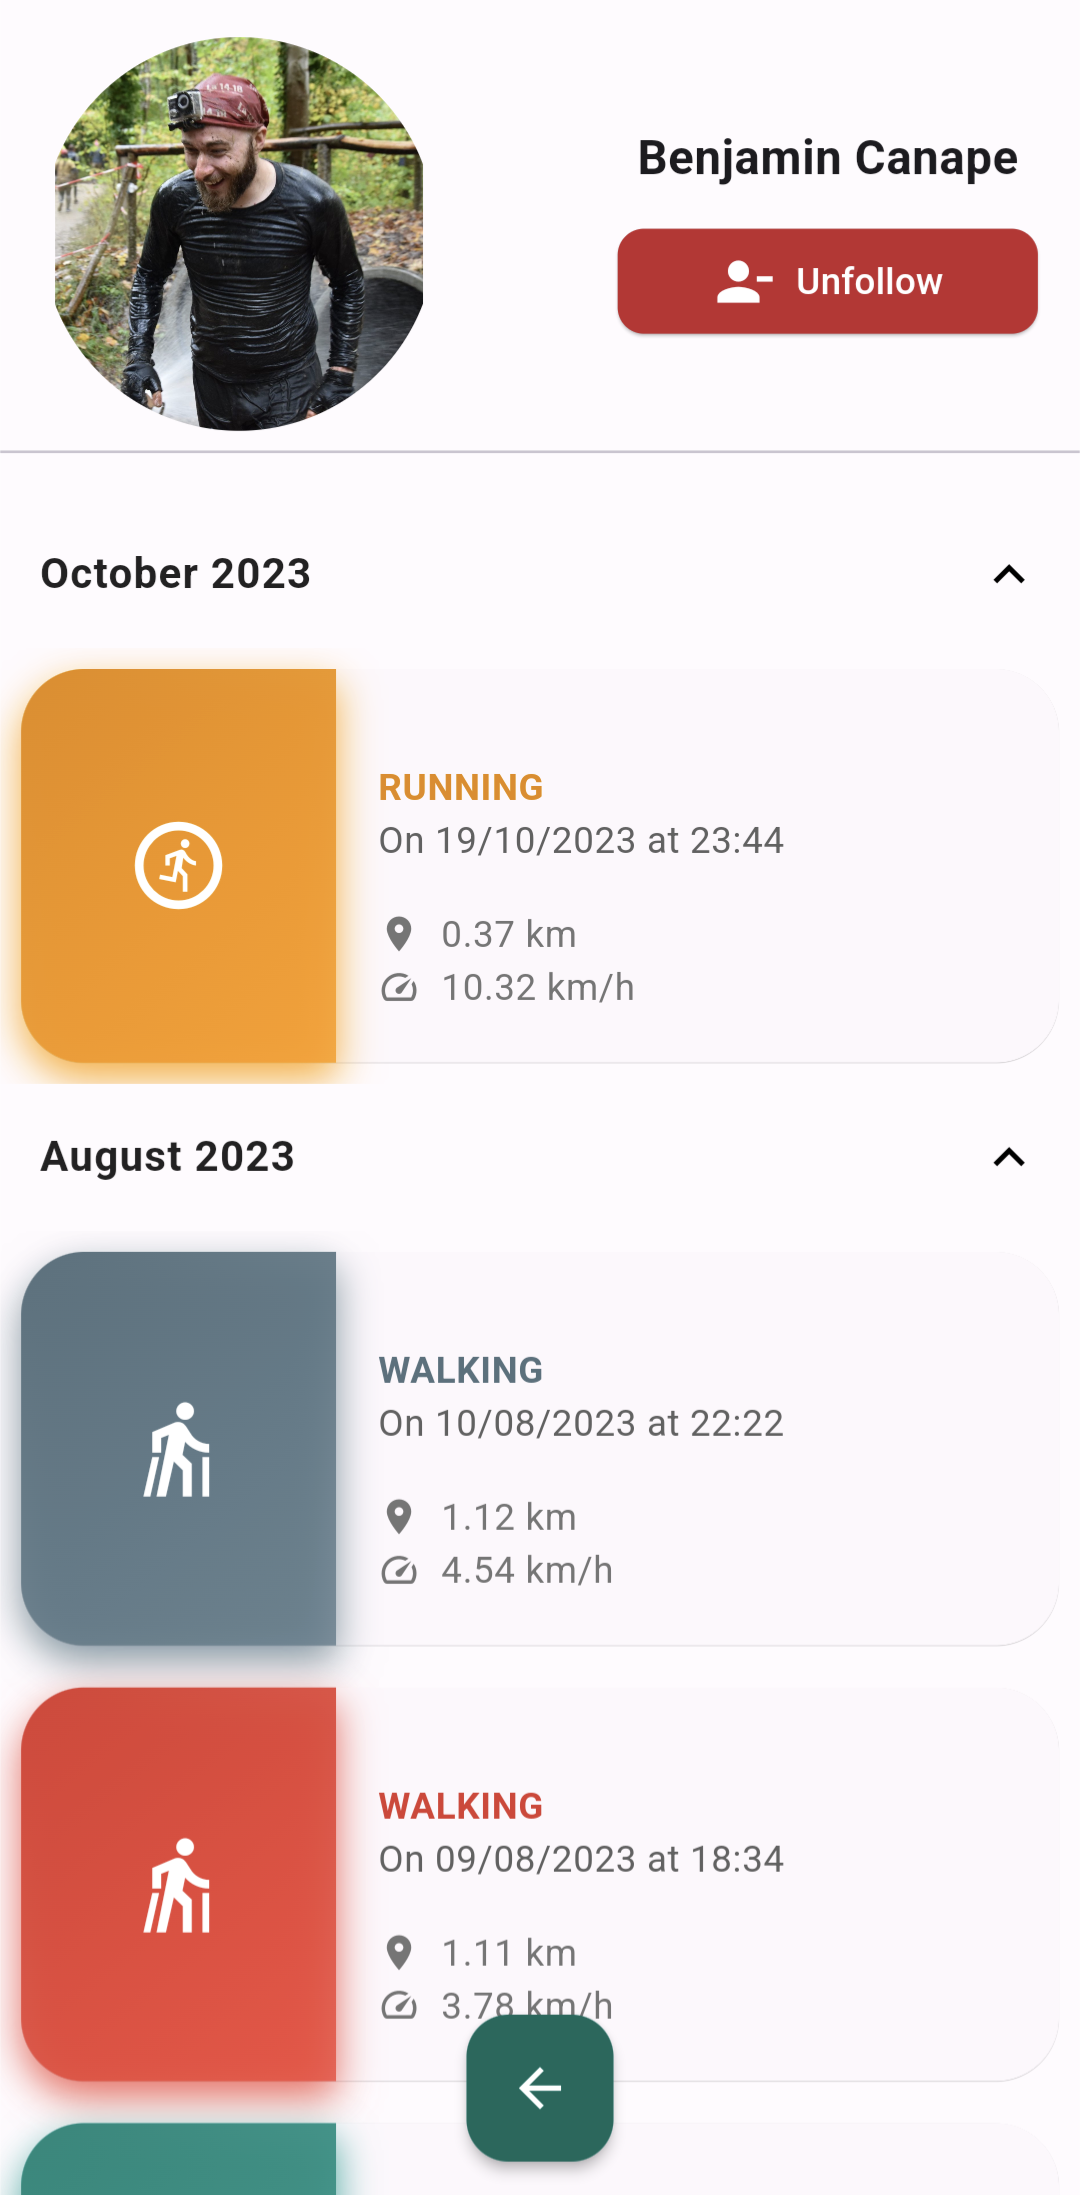
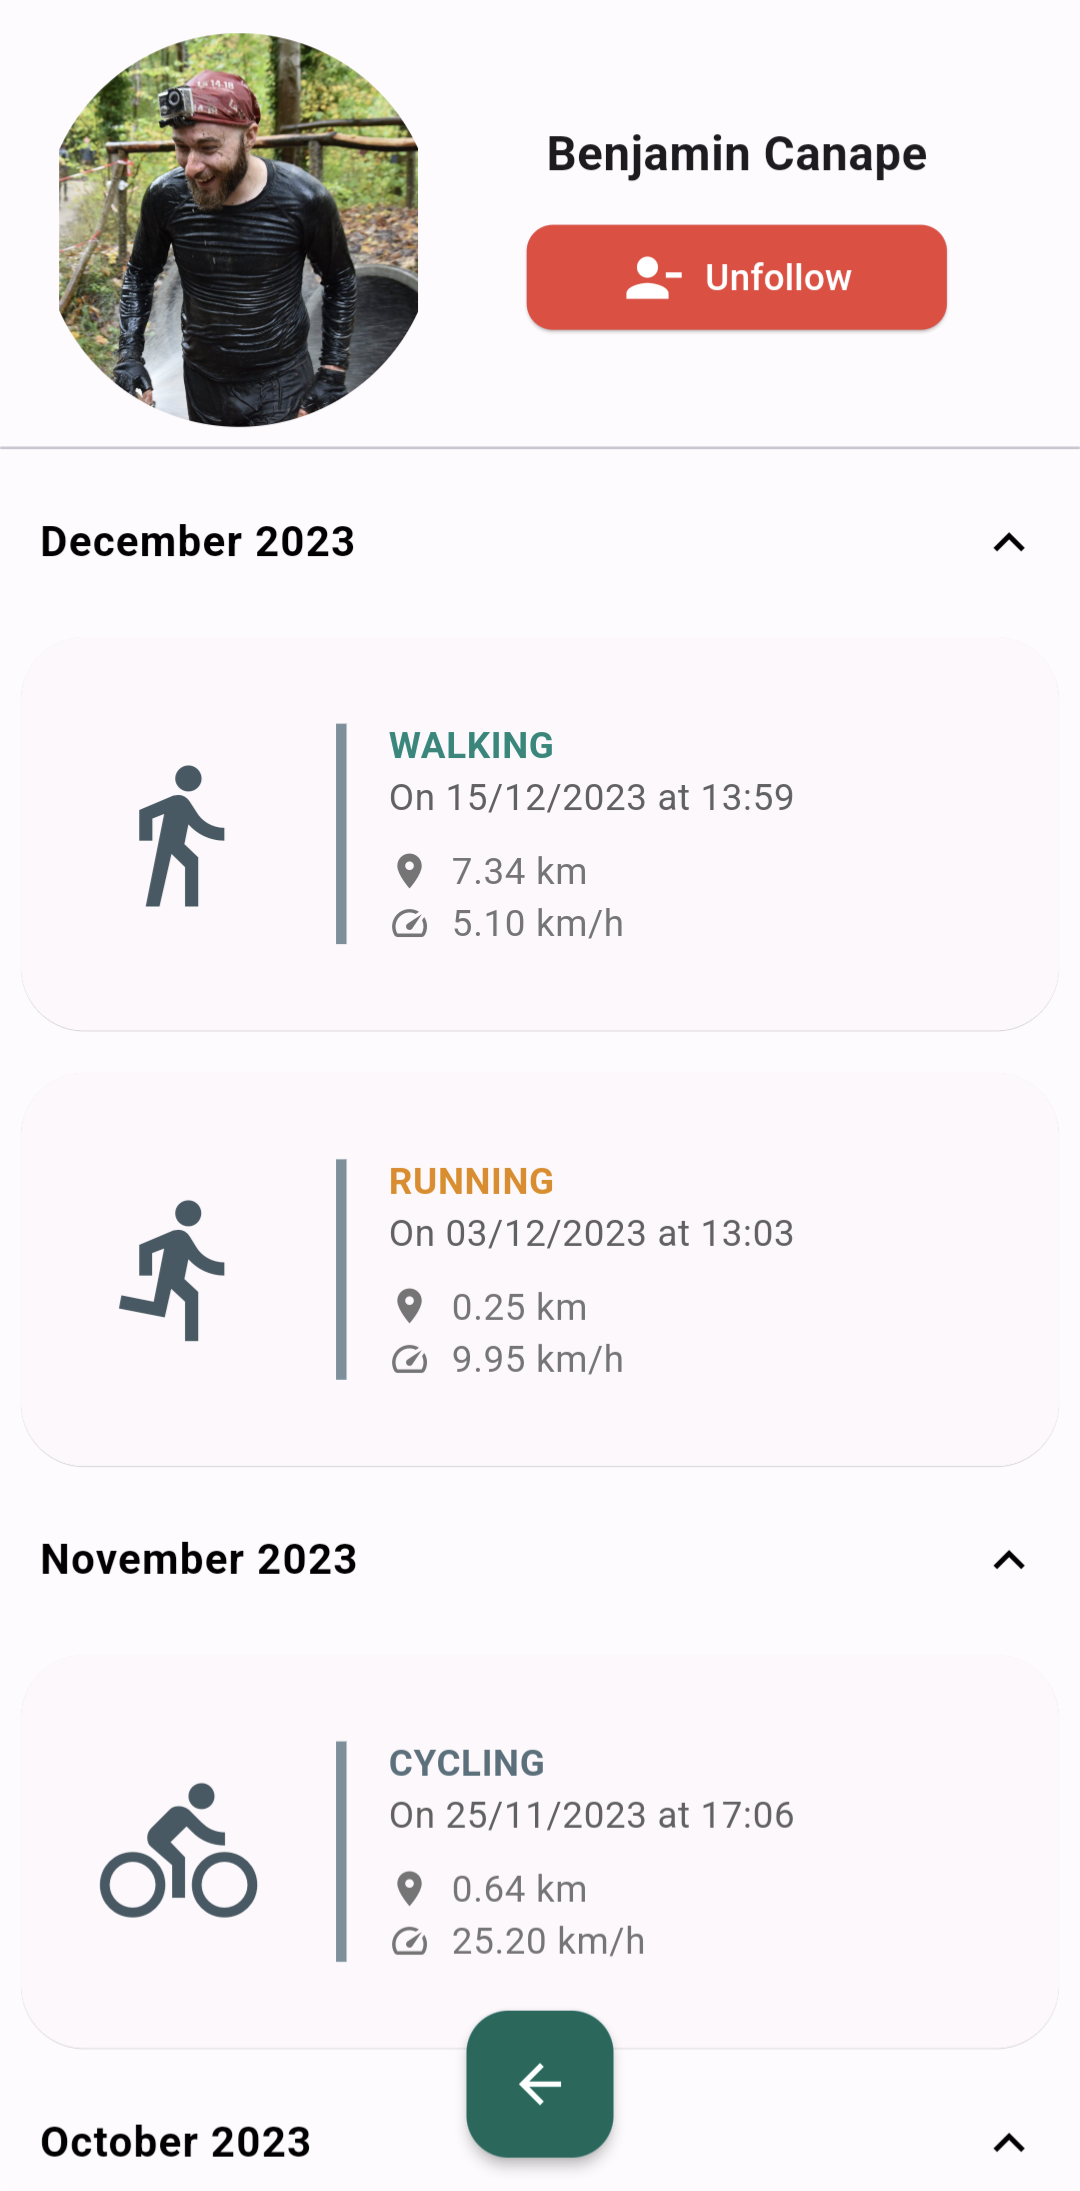
Beautiful activity cards (#48)
* change visual of activity cards

* fix import and dart fix

* edit screenshots

diff --git a/lib/presentation/common/activity/widgets/activity_item.dart b/lib/presentation/common/activity/widgets/activity_item.dart
@@ -35,8 +35,6 @@ class ActivityItem extends HookConsumerWidget {
     final List<Color> colors = ColorUtils.generateColorTupleFromIndex(index);
     final titleColor = colors.first;
 
-    final startColor = colors.first;
-    final endColor = colors.last;
     const double borderRadius = 24;
 
     Activity currentActivity = state.activity ?? activity;
@@ -74,33 +72,25 @@ class ActivityItem extends HookConsumerWidget {
                 Row(
                   children: [
                     if (!displayUserName)
-                      Container(
+                      SizedBox(
                         width: 120,
                         height: 150,
-                        decoration: BoxDecoration(
-                          borderRadius: const BorderRadius.only(
-                            topLeft: Radius.circular(borderRadius),
-                            bottomLeft: Radius.circular(borderRadius),
-                          ),
-                          gradient: LinearGradient(
-                            colors: [startColor, endColor],
-                            begin: Alignment.topLeft,
-                            end: Alignment.bottomRight,
-                          ),
-                          boxShadow: [
-                            BoxShadow(
-                              color: endColor,
-                              blurRadius: 12,
-                              offset: const Offset(0, 6),
-                            ),
-                          ],
-                        ),
                         child: Center(
                           child: Icon(
                             ActivityUtils.getActivityTypeIcon(activity.type),
-                            color: ColorUtils.white,
-                            size: 40,
+                            color: Colors.blueGrey.shade700,
+                            size: 60,
                           ),
+                        ),
+                      ),
+                    if (!displayUserName)
+                      SizedBox(
+                        height: 84,
+                        child: VerticalDivider(
+                          key: Key(activity.id.toString()),
+                          color: Colors.blueGrey.shade400,
+                          thickness: 4,
+                          width: 4,
                         ),
                       ),
                     if (!displayUserName) const SizedBox(width: 16),

diff --git a/lib/data/api/activity_api.dart b/lib/data/api/activity_api.dart
@@ -17,7 +17,7 @@ class ActivityApi {
       int pageNumber) async {
     Response? response = await ApiHelper.makeRequest(
         '${ActivityApi.url}all', 'GET',
-        queryParams: {'page': pageNumber, 'size': 5});
+        queryParams: {'page': pageNumber, 'size': 20});
 
     PageResponse pageResponse = PageResponse.fromMap(response?.data);
     final data = List<Map<String, dynamic>>.from(pageResponse.list);
@@ -33,7 +33,7 @@ class ActivityApi {
       int pageNumber) async {
     Response? response = await ApiHelper.makeRequest(
         '${ActivityApi.url}friends', 'GET',
-        queryParams: {'page': pageNumber, 'size': 3}, noCache: true);
+        queryParams: {'page': pageNumber, 'size': 10}, noCache: true);
     PageResponse pageResponse = PageResponse.fromMap(response?.data);
     final data = List<Map<String, dynamic>>.from(pageResponse.list);
     List<ActivityResponse> activities =
@@ -48,7 +48,7 @@ class ActivityApi {
       String userId, int pageNumber) async {
     Response? response = await ApiHelper.makeRequest(
         '${ActivityApi.url}user/$userId', 'GET',
-        queryParams: {'page': pageNumber, 'size': 5}, noCache: true);
+        queryParams: {'page': pageNumber, 'size': 20}, noCache: true);
     PageResponse pageResponse = PageResponse.fromMap(response?.data);
     final data = List<Map<String, dynamic>>.from(pageResponse.list);
     List<ActivityResponse> activities =

diff --git a/lib/presentation/common/activity/widgets/activity_comments.dart b/lib/presentation/common/activity/widgets/activity_comments.dart
@@ -5,13 +5,13 @@ import 'package:flutter/material.dart';
 import 'package:flutter_gen/gen_l10n/app_localizations.dart';
 import 'package:hooks_riverpod/hooks_riverpod.dart';
 import 'package:quickalert/quickalert.dart';
-import '../../core/utils/ui_utils.dart';
 
 import '../../../../core/utils/storage_utils.dart';
 import '../../../../domain/entities/activity.dart';
 import '../../../../domain/entities/activity_comment.dart';
 import '../../../../domain/entities/user.dart';
 import '../../core/utils/color_utils.dart';
+import '../../core/utils/ui_utils.dart';
 import '../../core/utils/user_utils.dart';
 import '../../user/view_model/profile_picture_view_model.dart';
 import '../view_model/activity_item_comments_view_model.dart';

diff --git a/test/presentation/core/utils/activity_utils_test.dart b/test/presentation/core/utils/activity_utils_test.dart
@@ -8,11 +8,11 @@ void main() {
   group('ActivityUtils', () {
     test('getActivityTypeIcon should return correct icons', () {
       expect(ActivityUtils.getActivityTypeIcon(ActivityType.running),
-          Icons.run_circle_outlined);
+          Icons.directions_run);
       expect(ActivityUtils.getActivityTypeIcon(ActivityType.walking),
-          Icons.nordic_walking);
+          Icons.directions_walk);
       expect(ActivityUtils.getActivityTypeIcon(ActivityType.cycling),
-          Icons.pedal_bike);
+          Icons.directions_bike);
     });
   });
 }

diff --git a/lib/presentation/common/core/utils/activity_utils.dart b/lib/presentation/common/core/utils/activity_utils.dart
@@ -24,13 +24,13 @@ class ActivityUtils {
   static IconData getActivityTypeIcon(ActivityType type) {
     switch (type) {
       case ActivityType.running:
-        return Icons.run_circle_outlined;
+        return Icons.directions_run;
       case ActivityType.walking:
-        return Icons.nordic_walking;
+        return Icons.directions_walk;
       case ActivityType.cycling:
-        return Icons.pedal_bike;
+        return Icons.directions_bike;
       default:
-        return Icons.run_circle_rounded;
+        return Icons.directions_run;
     }
   }
 
